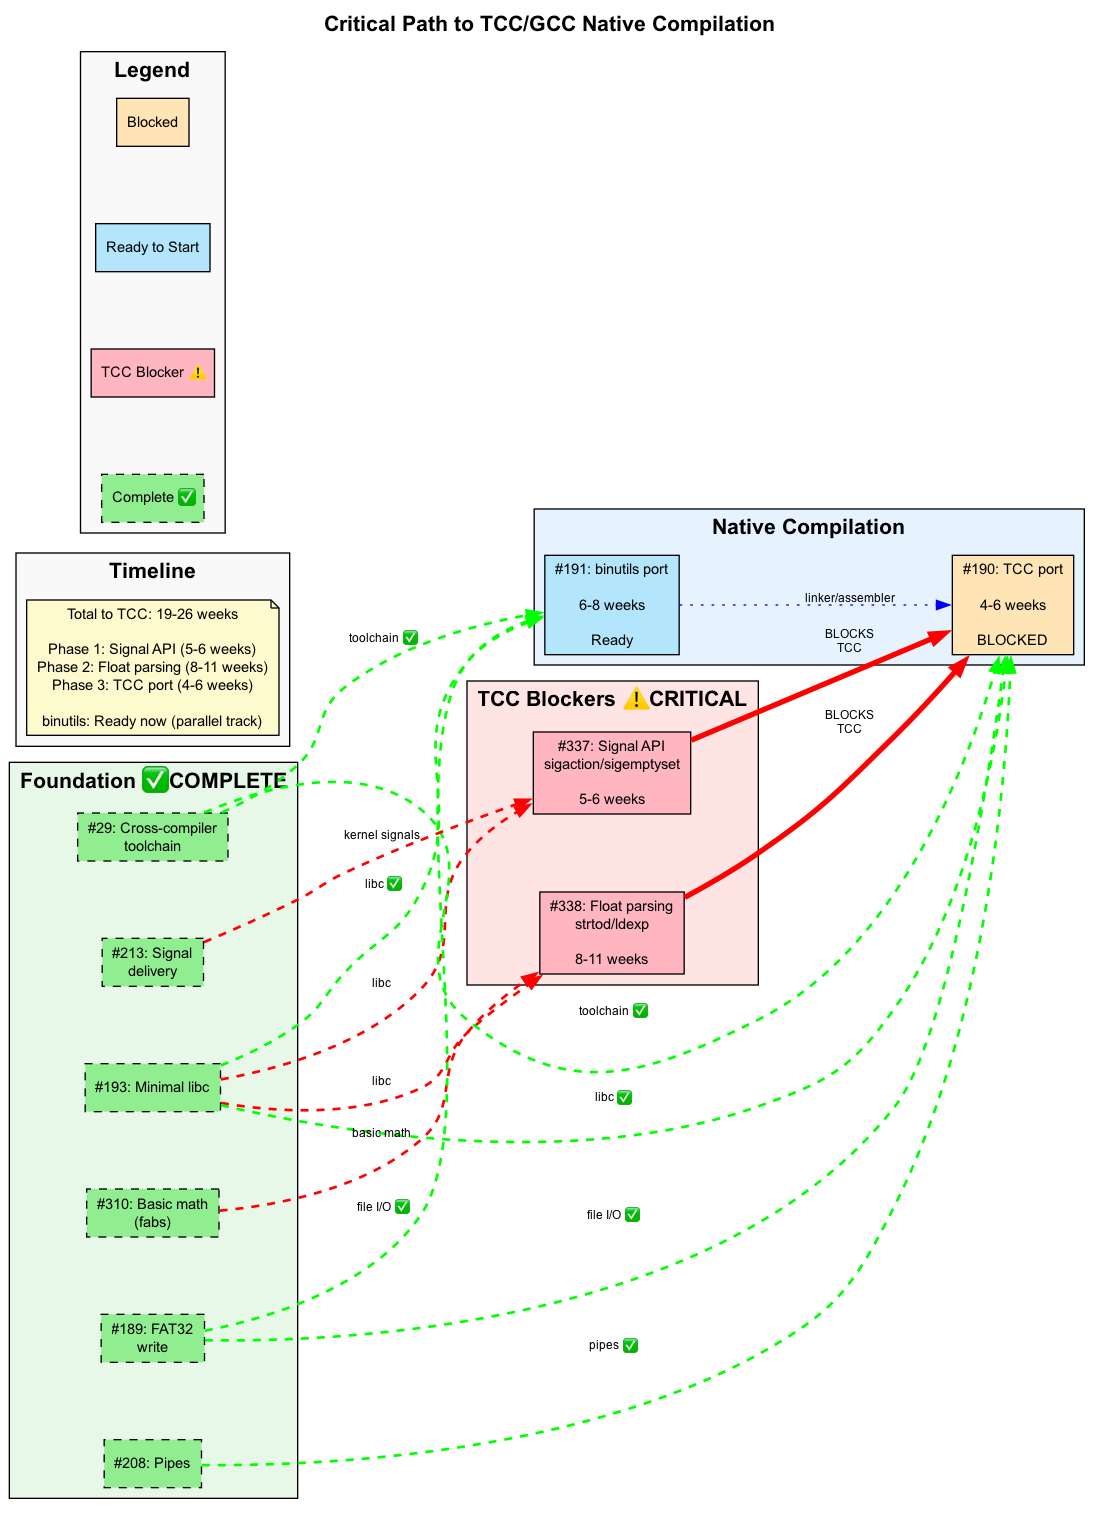
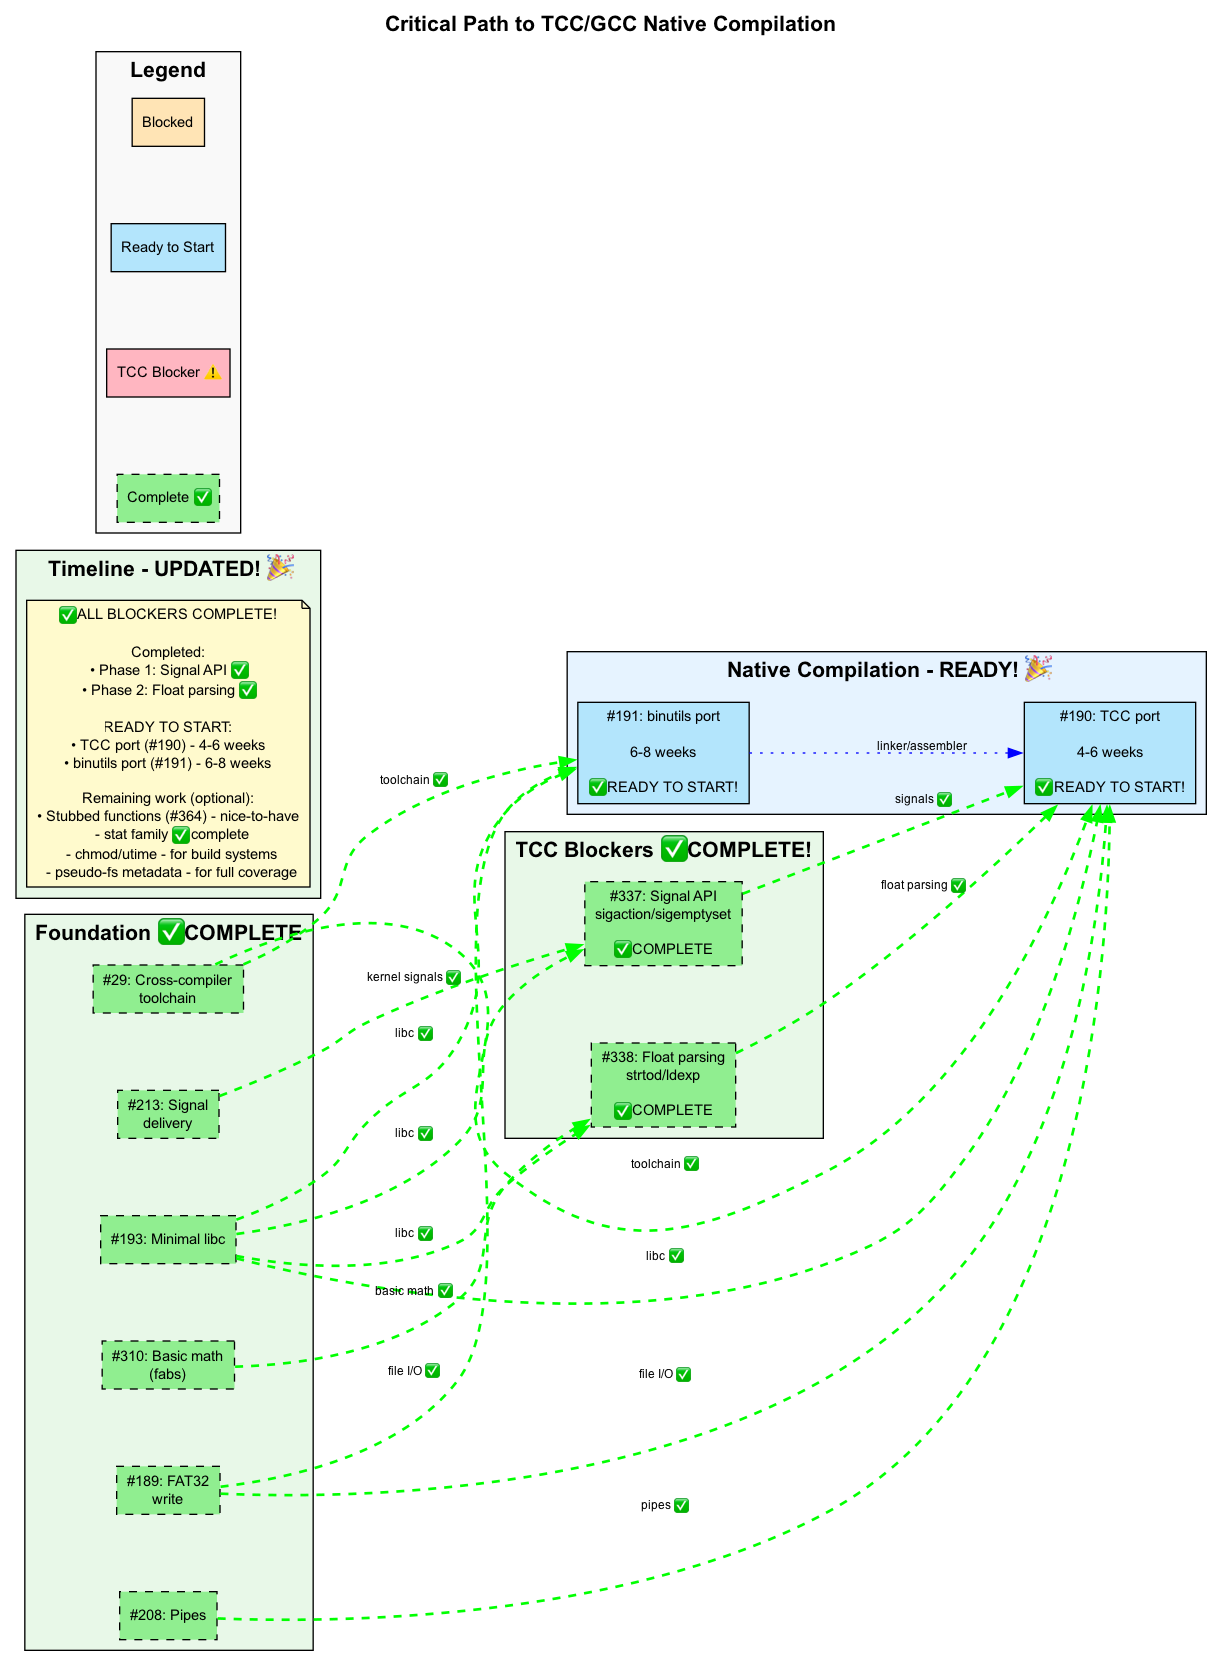
Updated the docs after having 'as' and 'ld' working on meniOS

diff --git a/docs/architecture/filesystem.md b/docs/architecture/filesystem.md
@@ -60,6 +60,97 @@ configuration files and, eventually, user binaries from persistent storage.
   requests, validating descriptor allocation, stream positioning, and error
   propagation for missing files or unsupported write flags.
 
+## File Metadata (stat family)
+
+The filesystem layer now exposes file metadata through a unified infrastructure
+spanning the kernel, VFS, and individual filesystem drivers. This enables
+userspace programs to query file properties via the POSIX stat() family.
+
+### Architecture
+
+**Kernel Infrastructure** (`include/kernel/fs.h:24`, `src/kernel/fs/fat32.c:2721`):
+- `struct fs_path_info` — uniform descriptor for file metadata including size,
+  permissions, timestamps, file type, ownership, and inode number.
+- `fs_path_info_to_stat()` — helper to convert `fs_path_info` to POSIX
+  `struct stat` format for userspace consumption.
+
+**VFS Integration** (`include/kernel/vfs.h:21`, `src/kernel/fs/vfs.c:203`):
+- `vfs_path_info()` — query function to retrieve metadata for a given path.
+  Resolves the path through the VFS namespace and delegates to the appropriate
+  filesystem driver.
+- `.stat` callback in `file_ops` — allows individual drivers to report metadata
+  for open file descriptors. The VFS invokes this during `fstat()` syscalls.
+- Metadata caching — when opening files, the VFS caches `fs_path_info` data for
+  efficient repeated queries via `fstat()` without re-parsing directory entries.
+
+**Syscall Interface** (`include/menios/syscall.h:40`,
+`src/kernel/syscall/syscall.c:933`):
+- `SYS_STAT` (89) — retrieve metadata by path, following symbolic links
+- `SYS_LSTAT` (90) — retrieve metadata by path, without following symlinks
+  (currently identical to `SYS_STAT` since symlinks are not yet implemented)
+- `SYS_FSTAT` (91) — retrieve metadata for an open file descriptor
+
+All three syscalls validate inputs, resolve paths or file descriptors through
+the VFS, invoke the appropriate driver callbacks, convert results to
+`struct stat` format, and copy the result to userspace memory.
+
+**Libc Wrappers** (`src/libc/stat.c:20`, `src/libc/unistd.c:325`,
+`user/libc/realpath.c:1`):
+- `stat()`, `lstat()`, `fstat()` — delegate directly to the corresponding
+  syscalls, handling error conversion and errno setting.
+- `access()` — uses `stat()` to check real mode bits for file accessibility,
+  replacing the previous stub that unconditionally failed.
+- `realpath()` — canonicalizes paths and validates existence with `stat()`,
+  ensuring POSIX-correct behavior.
+- `pathconf()` — partially implemented; returns `_PC_PATH_MAX` support. Other
+  queries still return `-ENOSYS` (tracked in issue #368).
+
+### Driver Support
+
+**FAT32** (`src/kernel/fs/fat32.c`):
+- Implements `.stat` callback (`fat32_stream_stat()`).
+- Parses directory entries to extract file size and read-only attribute.
+- **Current limitations** (tracked in issue #367):
+  - Timestamps (creation, modification, access) are not yet parsed from the FAT
+    directory entry date/time fields.
+  - DOS attributes beyond read-only (hidden, system, archive, volume) are
+    ignored.
+  - Long filename (LFN) metadata is not extracted for timestamps or permissions.
+  - Permissions are hard-coded (0644 for files, 0755 for directories) rather
+    than derived from FAT attributes.
+  - No ownership information (all files appear as uid=0, gid=0).
+
+**Pseudo-filesystems** (tracked in issue #366):
+- **tmpfs, procfs, devfs, pipes, console devices** — Currently expose
+  `.stat = NULL`, causing all stat queries to return `-ENOSYS`.
+- Each of these drivers needs to implement a `.stat` callback to report
+  appropriate metadata (file type, size for buffered data, timestamps, device
+  type for character/block devices, etc.).
+
+### Use Cases Enabled
+
+- **ls command** — Can display file sizes, permissions, and timestamps (once
+  full metadata is implemented).
+- **Build tools** — `make` and other build systems can use modification times
+  for incremental builds.
+- **File tests** — Shell scripts can use `test -f`, `test -d`, etc. to check
+  file types.
+- **find command** — Can filter by file type, size, or modification time.
+- **realpath()** — Resolves canonical paths and verifies existence.
+- **access()** — Checks file permissions correctly.
+
+### Outstanding Work
+
+- **Issue #366** — Implement `.stat` for pseudo-filesystems (tmpfs, procfs,
+  devfs, pipes, console devices).
+- **Issue #367** — Parse rich FAT32 metadata (timestamps, DOS attributes, LFN
+  information).
+- **Issue #365** — Implement `chmod()`/`fchmod()` syscalls to modify file
+  permissions (write-side of metadata).
+- **Issue #317** — Implement `utime()` syscall to modify file timestamps
+  (write-side of metadata).
+- **Issue #368** — Complete `pathconf()` implementation for all POSIX queries.
+
 ## Limitations and Follow-up Work
 
 - Write support remains limited to buffered, single-writer use cases; unlinking

diff --git a/docs/ISSUE_DEPENDENCY_ANALYSIS.md b/docs/ISSUE_DEPENDENCY_ANALYSIS.md
@@ -217,6 +217,64 @@ These issues form the backbone of the system and should be prioritized:
 
 **Priority**: Deferred - track #202 once higher-priority work lands
 
+### 📚 libc Stubbed Functions (Issues #364-#369, #317, #347, #21, #327)
+```
+                    ┌──→ ✅ stat/fstat/lstat (COMPLETE for FAT32)
+                    │   ✅ access() (COMPLETE)
+                    │   ✅ realpath() (COMPLETE)
+#193 (libc) ────────┤   ⚠  pathconf() (PARTIAL - only _PC_PATH_MAX) ──→ #368 (complete pathconf)
+                    │
+                    ├──→ #366 (pseudo-fs metadata) ──→ tmpfs, procfs, devfs, pipes .stat
+                    │
+                    ├──→ #367 (rich FAT32 metadata) ──→ timestamps, DOS attrs, LFN
+                    │
+                    ├──→ #365 (chmod/fchmod) ──┐
+                    │                           ├──→ File mutation APIs
+                    ├──→ #317 (utime) ─────────┘
+                    │
+                    ├──→ #347 (isatty, ttyname) ──→ TTY helper functions
+                    │
+                    ├──→ #21 (userspace heap) ──→ brk/sbrk implementation
+                    │
+                    ├──→ #369 (system()) ──→ shell command execution
+                    │
+                    └──→ #327 (timing APIs) ──→ nanosleep, alarm, clock_*, timers
+```
+
+**Implemented** (tracked in #364):
+- ✅ **stat()/lstat()/fstat()** - File metadata queries (FAT32 only, skeletal)
+  - Syscalls: `SYS_STAT`, `SYS_LSTAT`, `SYS_FSTAT` (89-91)
+  - Kernel infrastructure: `fs_path_info`, `fs_path_info_to_stat()`
+  - VFS integration: `vfs_path_info()`, `.stat` callback, metadata caching
+  - FAT32: size + read-only attribute only
+  - **Limitations**: No timestamps, limited attributes, pseudo-fs returns ENOSYS
+- ✅ **access()** - Uses stat() to check file permissions (was stub)
+- ✅ **realpath()** - POSIX-correct path resolution with stat() validation (was stub)
+- ⚠ **pathconf()** - Partially implemented (only `_PC_PATH_MAX`)
+
+**Remaining Stubs**:
+- ❌ **chmod/fchmod** (#365) - Change file permissions
+- ❌ **utime** (#317) - Modify file timestamps
+- ❌ **isatty** (#347) - Check if fd is terminal
+- ❌ **brk/sbrk** (#21) - Dynamic memory allocation
+- ❌ **system()** (#369) - Execute shell commands
+- ❌ **Timing APIs** (#327) - nanosleep, alarm, clock_*, setitimer, getitimer
+
+**Sub-tasks**:
+- **#366** - Add `.stat` to pseudo-filesystems (tmpfs, procfs, devfs, pipes)
+- **#367** - Parse rich FAT32 metadata (timestamps, DOS attributes, LFN data)
+- **#368** - Complete pathconf() for all POSIX queries
+- **#363** - Serial port file descriptor for debug logging (separate enhancement)
+
+**Dependencies**:
+- stat infrastructure: ✅ Complete
+- #189 (FAT32 write): ✅ Complete (needed for chmod/utime)
+- #18 (syscalls): Ongoing (needed for most stubs)
+- #21 (heap): Needed for brk/sbrk
+- mosh with `-c` flag: Needed for system()
+
+**Priority**: **HIGH** - Many tools rely on stat() working on all filesystems, chmod/utime needed for build systems
+
 ## 🏗 Updated Implementation Phases
 
 ### Phase 1: Core Foundation ✅ (COMPLETE!)

diff --git a/docs/DEPENDENCY_DIAGRAMS.md b/docs/DEPENDENCY_DIAGRAMS.md
@@ -35,7 +35,15 @@ The meniOS project has grown to over 100+ tracked issues with complex interdepen
 **Shows:**
 - Foundation: Minimal libc #193 (complete ✅)
 - Doom libc gaps: #304-#310 (all complete ✅)
-- **TCC blockers:** #337 (Signal API), #338 (Float parsing) ⚠
+- **TCC blockers:** #337 (Signal API ✅ CLOSED), #338 (Float parsing ✅ CLOSED)
+- **Stubbed functions:** #364 (parent), #365-#369, #317, #347, #21, #327
+  - ✅ stat/fstat/lstat (complete for FAT32, skeletal)
+  - ✅ access(), realpath() (complete)
+  - ⚠ pathconf() (partial - #368)
+  - ❌ chmod/fchmod (#365), utime (#317)
+  - ❌ pseudo-fs metadata (#366), rich FAT32 metadata (#367)
+  - ❌ isatty (#347), brk/sbrk (#21), system() (#369)
+  - ❌ timing APIs (#327)
 - Thread safety: #339 (depends on pthread #109)
 - Extended features: stdio, math, regex, TTY helpers, multiplexing
 - Future work: sockets, locale, wide-char, dynamic loader
@@ -46,11 +54,16 @@ The meniOS project has grown to over 100+ tracked issues with complex interdepen
 - Identifying gaps for specific programs
 
 **Key Categories:**
-- ✅ **Complete:** Basic libc, Doom gaps (all done)
-- 🔴 **Critical:** Signal API, Float parsing (block TCC)
+- ✅ **Complete:** Basic libc, Doom gaps, Signal API, Float parsing
+- 🟡 **Stubbed Functions:** #364 tracking (partially complete - stat family done)
 - 🔵 **Threading:** Thread-safe libc (after pthread)
 - 🟡 **Extended:** Additional POSIX features
 - 🟣 **Future:** Nice-to-have features
+
+**Recent Progress:**
+- ✅ #337 (Signal API) - CLOSED
+- ✅ #338 (Float parsing) - CLOSED - TCC blockers resolved! 🎉
+- ⚠ #364 (Stubbed functions) - Partially complete (stat family working)
 
 ---
 

diff --git a/docs/road/road_to_gcc.md b/docs/road/road_to_gcc.md
@@ -93,12 +93,21 @@ GNU [binutils 2.45](https://www.gnu.org/software/binutils/) has also been staged
 **Dependencies for TCC (#190):**
 - ✅ #29 (cross-compiler complete) - COMPLETE
 - ✅ #193 (libc) - COMPLETE
-- ✅ #338 (floating-point parsing helpers: strtod/strtof; strtold currently aliases to strtod) - COMPLETE
+- ✅ #337 (signal API) - **COMPLETE!** (was TCC blocker)
+- ✅ #338 (floating-point parsing helpers: strtod/strtof; strtold currently aliases to strtod) - **COMPLETE!** (was TCC blocker)
+- ⚠ #364 (stubbed libc functions) - **PARTIALLY COMPLETE** (stat family working, other stubs tracked)
+  - ✅ stat/fstat/lstat syscalls (SYS_STAT, SYS_LSTAT, SYS_FSTAT)
+  - ✅ access(), realpath() (using stat infrastructure)
+  - ⚠ pathconf() (partial - only _PC_PATH_MAX) - #368
+  - ❌ chmod/fchmod (#365), utime (#317) - file mutation APIs
+  - ❌ pseudo-fs metadata (#366), rich FAT32 metadata (#367)
+  - ❌ isatty (#347), brk/sbrk (#21), system() (#369), timing APIs (#327)
 - ✅ Pipes & FIFOs - **FULLY COMPLETE!** (#206 ✅, #207 ✅, #208 ✅, #209 ✅)
 - ✅ #189 (file writes) - **COMPLETE!** (#291, #292, #293 all done)
 - ✅ #294 (VFS streaming I/O) - **COMPLETE!** (#295, #296, #297, #298 all done)
 - ✅ #205 (I/O scheduler) - COMPLETE
-- **🎉 ALL DEPENDENCIES MET - ZERO BLOCKERS!**
+- **🎉 ALL CRITICAL DEPENDENCIES MET - TCC BLOCKERS RESOLVED!**
+- **📝 Note:** Remaining stubbed functions (#364 sub-issues) are nice-to-have for full POSIX compliance but don't block TCC
 
 **Dependencies for binutils (#191):**
 - ✅ #29 (cross-compiler complete) - COMPLETE

diff --git a/docs/architecture/vfs_streaming.md b/docs/architecture/vfs_streaming.md
@@ -37,6 +37,21 @@
 - Maintain backward-compatible buffered mode for devices that lack streaming.
 - Update FAT32 driver to expose streaming hooks.
 
+**Metadata Support (Implemented):**
+- The `.stat` callback in `file_ops` allows drivers to report file metadata
+  (size, permissions, timestamps, type, ownership) for both path-based and
+  descriptor-based queries.
+- VFS provides `vfs_path_info()` to query metadata by path and caches
+  `fs_path_info` on open files for efficient `fstat()` queries.
+- Syscalls `SYS_STAT`, `SYS_LSTAT`, `SYS_FSTAT` expose this to userspace,
+  enabling POSIX stat()/fstat()/lstat() operations.
+- **Current status:**
+  - FAT32: `.stat` implemented (skeletal - size and read-only only; timestamps
+    and full attributes tracked in #367)
+  - Pseudo-filesystems (tmpfs, procfs, devfs, pipes): `.stat = NULL` (tracked
+    in #366)
+- See `docs/architecture/filesystem.md` for detailed metadata architecture.
+
 ### 4. Read-Ahead and Write-Behind (#298)
 
 - Detect sequential access patterns and prefetch upcoming blocks via the buffer cache.
